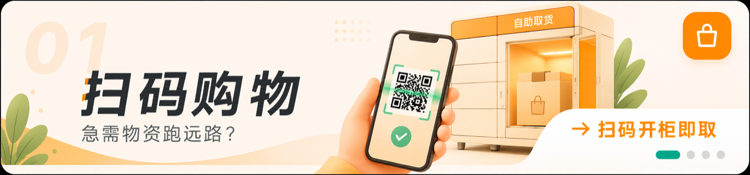
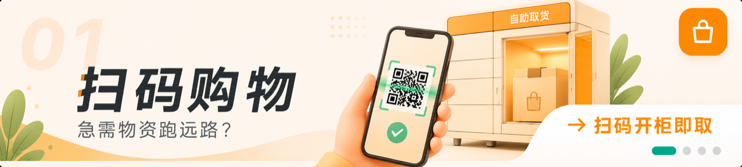
Add retail cabinet interactive prototype
Direct-purchase flow (select, cart, pay, pickup) rebuilt from Figma in vanilla HTML/CSS/JS, with a phone-shell/fullscreen toggle.

diff --git a/index.html b/index.html
@@ -11,9 +11,9 @@
 <meta name="apple-mobile-web-app-capable" content="yes">
 <meta name="apple-mobile-web-app-status-bar-style" content="default">
 <link rel="apple-touch-icon" href="assets/icon-180.png">
-<link rel="stylesheet" href="css/tokens.css?v=20261101c">
-<link rel="stylesheet" href="css/base.css?v=20261101c">
-<link rel="stylesheet" href="css/screens.css?v=20261101c">
+<link rel="stylesheet" href="css/tokens.css?v=20261101d">
+<link rel="stylesheet" href="css/base.css?v=20261101d">
+<link rel="stylesheet" href="css/screens.css?v=20261101d">
 </head>
 <body>
   <div class="stage">
@@ -26,6 +26,6 @@
     <button type="button" class="dev-btn" id="reset-demo">重置演示</button>
   </div>
   <div class="toast" id="toast" role="status" aria-live="polite"></div>
-  <script type="module" src="js/app.js?v=20261101c"></script>
+  <script type="module" src="js/app.js?v=20261101d"></script>
 </body>
 </html>

diff --git a/css/screens.css b/css/screens.css
@@ -1150,7 +1150,7 @@
   display: block;
   width: 100%;
   height: 0;
-  padding-bottom: 23.333%;
+  padding-bottom: 22.5%;
   border-radius: var(--r-12);
   overflow: hidden;
   box-shadow: 0 4px 14px rgba(23, 33, 28, .12);
@@ -1161,7 +1161,6 @@
   width: 100%;
   height: 100%;
   object-fit: cover;
-  transform: scale(1.008);
 }
 
 .nearby { display: flex; flex-direction: column; gap: 10px; }
